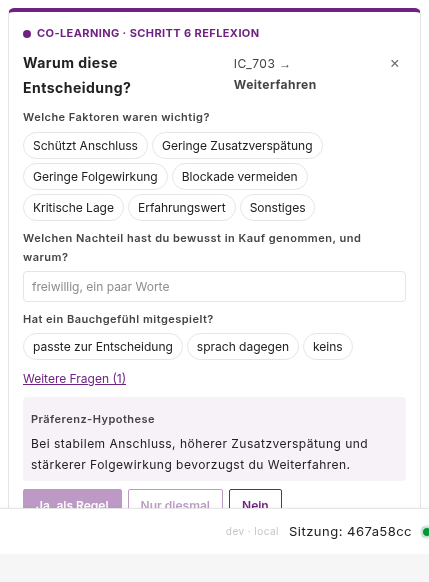
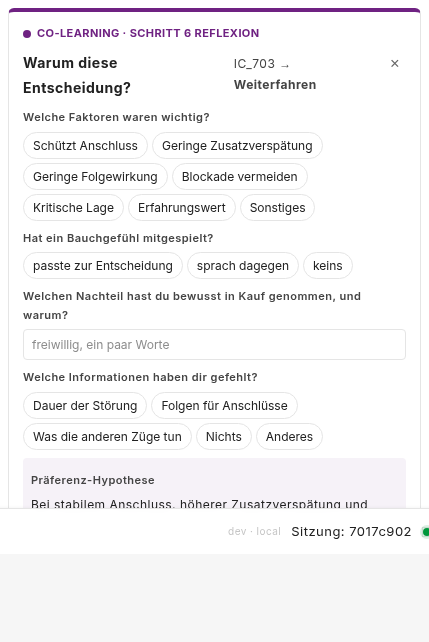
fix(reflection-prompt): show all questions of a reflection without «Weitere Fragen».

diff --git a/frontend/src/app/features/reflection-prompt/reflection-prompt.component.ts b/frontend/src/app/features/reflection-prompt/reflection-prompt.component.ts
@@ -64,11 +64,11 @@ export function pickQuestions(seed: number, n: number): ReflectionQuestionId[] {
  *
  * Always asked: which factors mattered, as the reason chips, because they feed
  * the preference hypothesis and so "the AI learns". Beside it, a few of the
- * team's reflection questions, drawn at random per decision so a run is not a
- * questionnaire: a gut feeling (chips), missing information (chips), and the
- * drawback accepted on purpose (a few words). How many is the session's
- * `reflectionQuestionLimit` (2 by default); the rest sit behind "more
- * questions". Every question is optional. The "most important insight for next
+ * team's reflection questions, all of them, in an order drawn per decision: a
+ * gut feeling (chips), missing information (chips), and the drawback accepted
+ * on purpose (a few words). None is hidden behind a "more questions" link,
+ * which participants overlooked; `reflectionQuestionLimit` is the Co-Learning
+ * reflection panel's, not this prompt's. Every question is optional. The "most important insight for next
  * time" is asked at the end of the shift instead — right after a decision there
  * rarely is one yet.
  */
@@ -93,14 +93,11 @@ export class ReflectionPromptComponent {
 
   readonly pending = computed(() => this.store.pendingRationale());
 
-  /** The questions offered for this decision, drawn once per decision. */
-  readonly suggested = computed<ReflectionQuestionId[]>(() => {
+  /** Every question, in the order drawn for this decision. */
+  readonly shown = computed<ReflectionQuestionId[]>(() => {
     const p = this.pending();
-    return p ? pickQuestions(p.timestamp, this.store.reflectionQuestionLimit()) : [];
+    return p ? pickQuestions(p.timestamp, POOL.length) : [];
   });
-  readonly more = computed(() => POOL.filter((q) => !this.suggested().includes(q)));
-  readonly showMore = signal(false);
-  readonly shown = computed(() => (this.showMore() ? [...this.suggested(), ...this.more()] : this.suggested()));
 
   readonly selectedFactors = signal<Set<string>>(new Set());
   readonly gut = signal<string | null>(null);
@@ -185,7 +182,6 @@ export class ReflectionPromptComponent {
     this.gut.set(null);
     this.missing.set(new Set());
     this.tradeoff.set('');
-    this.showMore.set(false);
   }
 }
 

diff --git a/frontend/src/app/features/reflection-prompt/reflection-prompt.component.spec.ts b/frontend/src/app/features/reflection-prompt/reflection-prompt.component.spec.ts
@@ -28,11 +28,6 @@ describe('reflection-prompt: question selection', () => {
     expect(pickQuestions(42, 99).length).toBe(REFLECTION_QUESTION_POOL.length);
   });
 
-  it('a smaller limit is a prefix of a larger one, so "more questions" only appends', () => {
-    const seed = 1726000999999;
-    expect(pickQuestions(seed, 3).slice(0, 2)).toEqual(pickQuestions(seed, 2));
-  });
-
   it('varies across decisions', () => {
     const firsts = new Set(Array.from({ length: 50 }, (_, i) => pickQuestions(1726000000000 + i * 7919, 1)[0]));
     expect(firsts.size).toBeGreaterThan(1);
@@ -75,5 +70,29 @@ describe('reflection-prompt: the decision it names', () => {
     const prompt = TestBed.createComponent(ReflectionPromptComponent).componentInstance;
     expect(prompt.strategyLabel()).toBe(i18n.t('proposals.option.proceed', undefined, 'Proceed'));
     expect(prompt.strategyLabel()).not.toBe(i18n.t('proposals.option.reroute', undefined, 'Reroute'));
+  });
+});
+
+/** Every question shows at once; a "more questions" link was overlooked
+ *  (docs/plans/reflection-inline.md D18). */
+describe('reflection-prompt: the questions it shows', () => {
+  afterEach(() => TestBed.resetTestingModule());
+
+  it('shows the reason chips and every question of the pool, with no link for more', () => {
+    TestBed.configureTestingModule({
+      imports: [ReflectionPromptComponent],
+      providers: [...provideTranslocoTesting(), provideHttpClient(), provideHttpClientTesting()],
+    });
+    const store = TestBed.inject(SessionStore);
+    store.session.set({ id: 'sess-1' } as SessionInfo);
+    store.interactionMode.set('co-learning');
+    store.setReflectionQuestionLimit(1);
+    store.recordProposalChoice(0, 'proceed');
+    const fixture = TestBed.createComponent(ReflectionPromptComponent);
+    fixture.detectChanges();
+    const el: HTMLElement = fixture.nativeElement;
+    expect(fixture.componentInstance.shown().length).toBe(REFLECTION_QUESTION_POOL.length);
+    expect(el.querySelectorAll('.rp-q').length).toBe(1 + REFLECTION_QUESTION_POOL.length);
+    expect(el.querySelector('.rp-more')).toBeNull();
   });
 });

diff --git a/frontend/src/app/features/reflection-prompt/reflection-prompt.component.html b/frontend/src/app/features/reflection-prompt/reflection-prompt.component.html
@@ -52,12 +52,6 @@
       </div>
     }
 
-    @if (more().length > 0 && !showMore()) {
-      <button type="button" class="rp-more" (click)="showMore.set(true)">
-        {{ 'reflectionPrompt.more' | transloco: { n: more().length } }}
-      </button>
-    }
-
     <div class="rp-hypothesis">
       <span class="rp-q-label">{{ 'rationale.hypothesisLabel' | transloco }}</span>
       <p>{{ hypothesis() }}</p>

diff --git a/frontend/src/app/features/reflection-prompt/reflection-prompt.component.scss b/frontend/src/app/features/reflection-prompt/reflection-prompt.component.scss
@@ -84,18 +84,6 @@
   border-radius: 4px;
 }
 
-.rp-more {
-  align-self: flex-start;
-  padding: 0;
-  font: inherit;
-  font-size: 12px;
-  color: var(--app-colearning-accent);
-  background: none;
-  border: 0;
-  text-decoration: underline;
-  cursor: pointer;
-}
-
 .rp-hypothesis {
   padding: 6px 8px;
   background: color-mix(in srgb, var(--app-colearning-accent) 6%, var(--app-surface));
